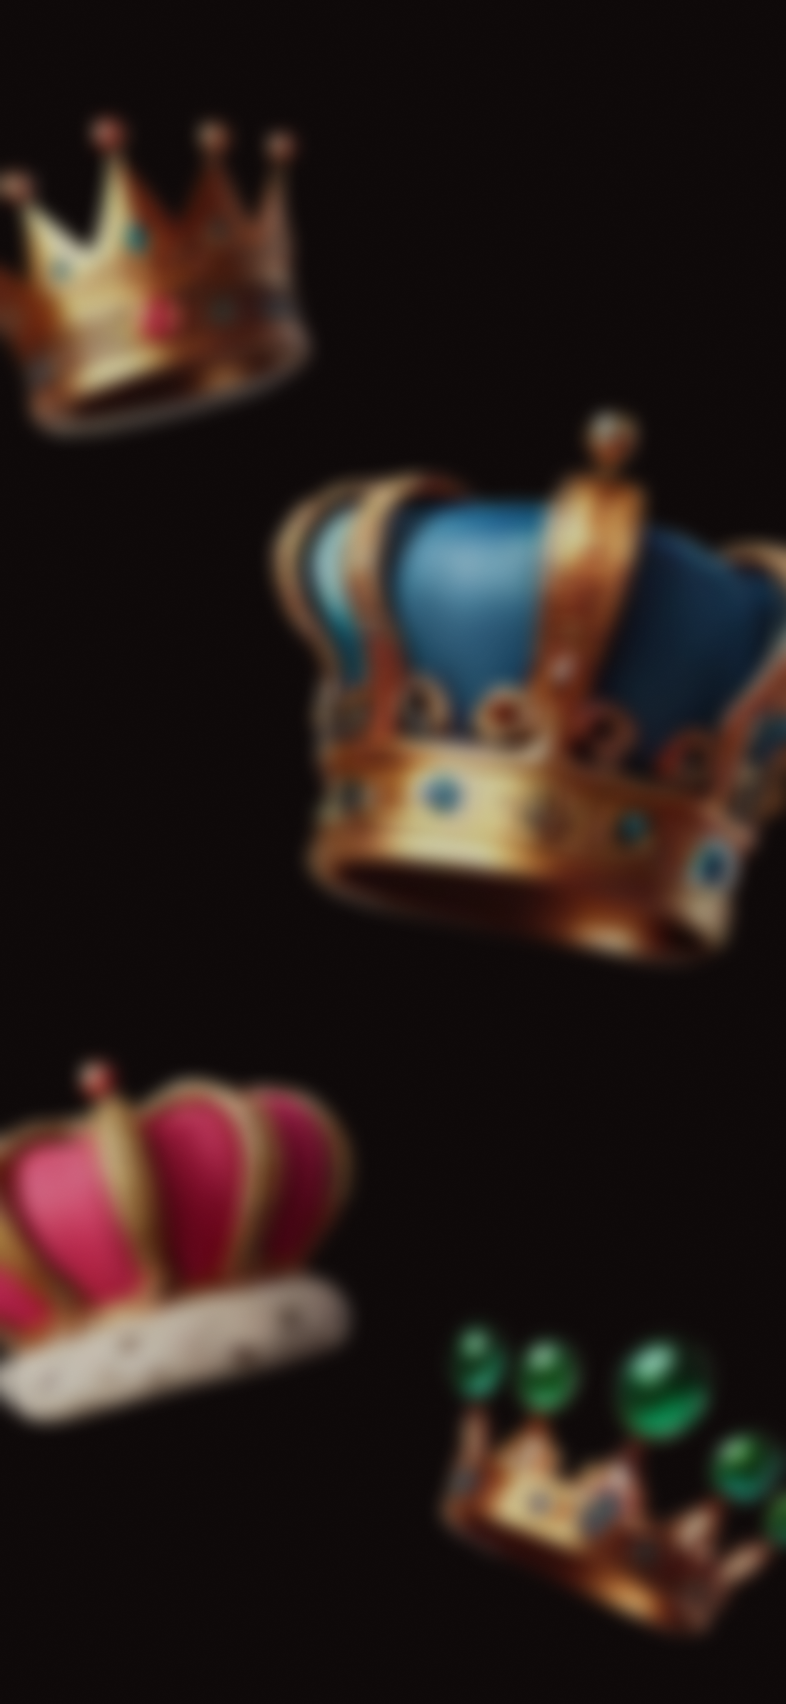
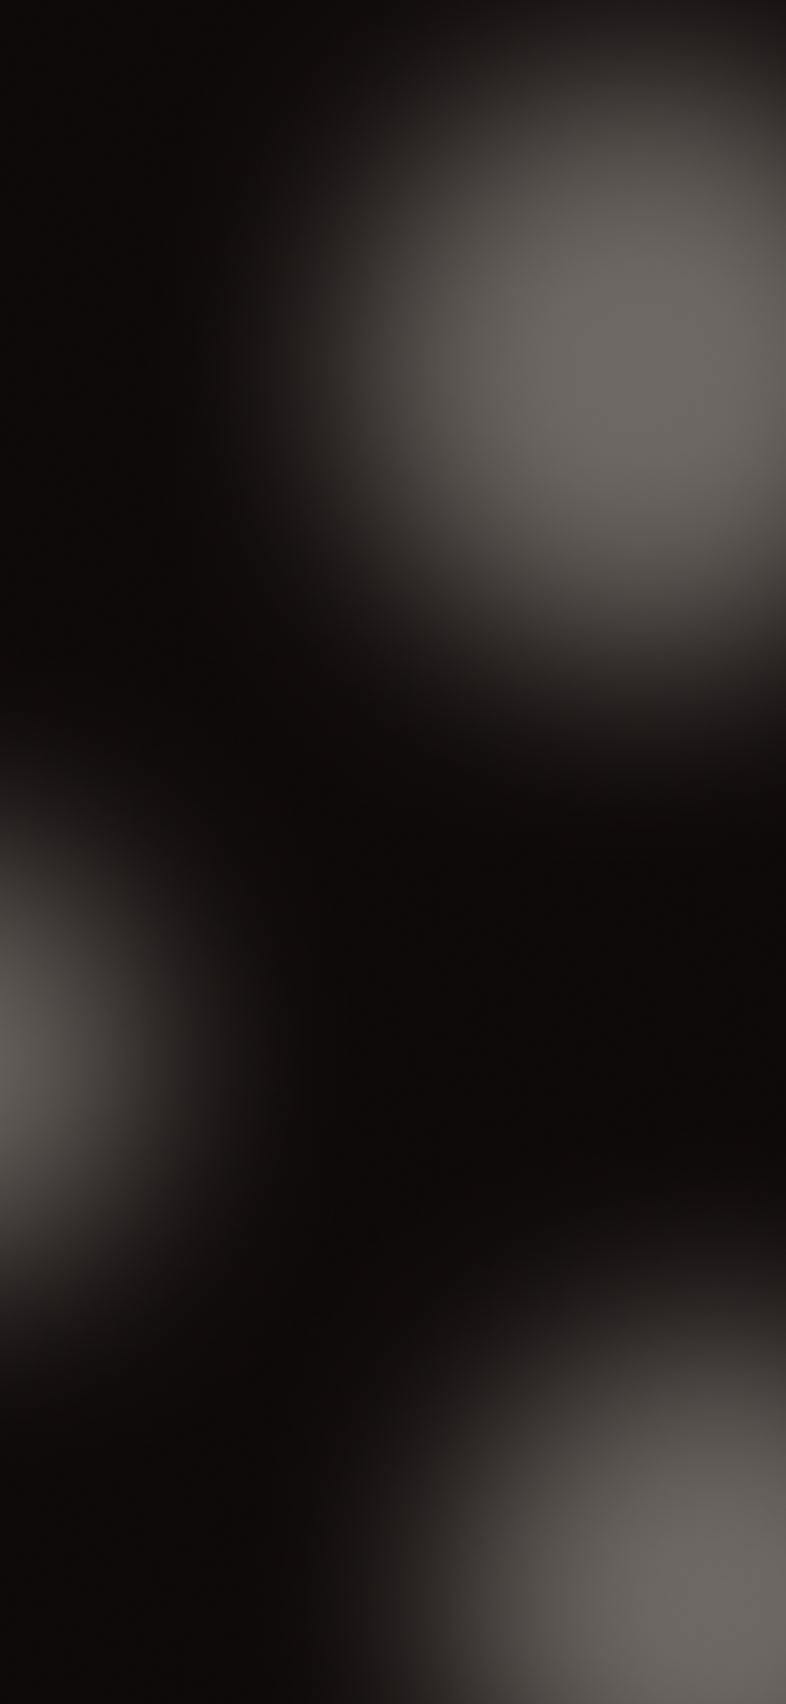
init branch

diff --git a/screen/stackScreen/WelcomeScreen.js b/screen/stackScreen/WelcomeScreen.js
@@ -13,7 +13,9 @@ const WelcomeScreen = ({navigation}) => {
   return (
     <ImageBackground
       source={require('../../assets/image/bg/bg.png')}
-      style={styles.container}>
+      style={styles.container}
+      // blurRadius={100}
+    >
       <ScrollView
         contentContainerStyle={styles.content}
         showsVerticalScrollIndicator={false}>
@@ -21,45 +23,31 @@ const WelcomeScreen = ({navigation}) => {
           Welcome to{'\n'}Crowns Sequence{'\n'}Mastery
         </Text>
 
-        <Text style={styles.subtitle}>
-          Memorize the light. Repeat the pattern. Claim the crown.
-        </Text>
+        <Text style={styles.subtitle}>Your path to mastery begins now!</Text>
 
         <View style={styles.instructionsContainer}>
-          <Text style={styles.sectionTitle}>💠 How to Play:</Text>
-          <Text style={styles.instruction}>
-            1. Watch the Sequence – Crowns will light up in order.
-          </Text>
-          <Text style={styles.instruction}>
-            2. Repeat It – Tap the crowns in the same sequence.
-          </Text>
-          <Text style={styles.instruction}>
-            3. Keep Going – Each round adds more steps.
+          <Text style={styles.sectionTitle}>
+            💠 Set Goals – Break down ambitions into daily tasks and track your
+            progress.
           </Text>
         </View>
 
         <View style={styles.hintsContainer}>
-          <Text style={styles.sectionTitle}>💠 Hints:</Text>
-          <Text style={styles.instruction}>
-            Tap the hint button to replay the sequence. You have 3 per game –
-            use them wisely!
+          <Text style={styles.sectionTitle}>
+            💠 Challenge Yourself – Enjoy a fun mini-game
           </Text>
         </View>
 
         <View style={styles.rewardsContainer}>
-          <Text style={styles.sectionTitle}>💠 Unlock Rewards:</Text>
-          <Text style={styles.instruction}>
-            Earn points to unlock new crowns and backgrounds as you progress.
-          </Text>
+          <Text style={styles.sectionTitle}>💠 Achieve. Play. Master.</Text>
         </View>
 
-        <TouchableOpacity
-          style={styles.nextButton}
-          onPress={() => navigation.navigate('NameScreen')}>
-          <Text style={styles.nextButtonText}>Next</Text>
-        </TouchableOpacity>
-        {/* <View style={{height: 30}} /> */}
       </ScrollView>
+      <TouchableOpacity
+        style={styles.nextButton}
+        onPress={() => navigation.navigate('NameScreen')}>
+        <Text style={styles.nextButtonText}>Next</Text>
+      </TouchableOpacity>
     </ImageBackground>
   );
 };
@@ -75,6 +63,7 @@ const styles = StyleSheet.create({
     // flex: 1,
     padding: 20,
     justifyContent: 'space-between',
+    marginTop: 100,
   },
   title: {
     fontSize: 40,
@@ -128,8 +117,9 @@ const styles = StyleSheet.create({
     backgroundColor: '#FFE5B4',
     padding: 15,
     borderRadius: 25,
-    width: '100%',
-    marginBottom: 30,
+    width: '90%',
+    marginBottom: '20%',
+    alignSelf: 'center',
   },
   nextButtonText: {
     textAlign: 'center',

diff --git a/App.js b/App.js
@@ -4,7 +4,7 @@ import {ContextProvider} from './store/context';
 import {
   AboutScreen,
   CustomizeScreen,
-  MainScreen,
+  Tournament,
   NameScreen,
   ResultScreen,
   SelectBackgroundScreen,
@@ -22,6 +22,7 @@ import {
 } from './components/Sound/SetUp';
 import {AppState} from 'react-native';
 import {useAppContext} from './store/context';
+import Navigation from './Navigation';
 
 const Stack = createNativeStackNavigator();
 
@@ -90,8 +91,9 @@ const AppNavigator = () => {
         animationDuration: 1000,
       }}>
       <Stack.Screen name="WelcomeScreen" component={WelcomeScreen} />
+      <Stack.Screen name="Navigation" component={Navigation} />
       <Stack.Screen name="NameScreen" component={NameScreen} />
-      <Stack.Screen name="MainScreen" component={MainScreen} />
+      <Stack.Screen name="Tournament" component={Tournament} />
       <Stack.Screen name="CrownGameScreen" component={CrownGameScreen} />
       <Stack.Screen name="ResultScreen" component={ResultScreen} />
       <Stack.Screen name="SettingsScreen" component={SettingsScreen} />

diff --git a/Navigation.js b/Navigation.js
@@ -1,0 +1,22 @@
+import {StyleSheet, Text, View} from 'react-native';
+import {createBottomTabNavigator} from '@react-navigation/bottom-tabs';
+import {Tournament} from './screen/stackScreen';
+import Progress from './screen/tabScreen/Progress';
+import Realm from './screen/tabScreen/Realm';
+import Sequance from './screen/tabScreen/Sequance';
+const Tab = createBottomTabNavigator();
+
+const Navigation = () => {
+  return (
+    <Tab.Navigator screenOptions={{headerShown: false}}>
+      <Tab.Screen name="Realm" component={Realm} />
+      <Tab.Screen name="Sequance" component={Sequance} />
+      <Tab.Screen name="Progress" component={Progress} />
+      <Tab.Screen name="Tournament" component={Tournament} />
+    </Tab.Navigator>
+  );
+};
+
+export default Navigation;
+
+const styles = StyleSheet.create({});

diff --git a/screen/stackScreen/NameScreen.js b/screen/stackScreen/NameScreen.js
@@ -68,7 +68,7 @@ const NameScreen = ({navigation}) => {
       }
 
       await AsyncStorage.setItem('userNickname', nickname.trim());
-      navigation.navigate('MainScreen');
+      navigation.navigate('Navigation');
     } catch (error) {
       console.error('Error saving nickname:', error);
       Alert.alert('Error', 'Failed to save nickname. Please try again.');
@@ -106,10 +106,11 @@ const NameScreen = ({navigation}) => {
   return (
     <ImageBackground
       source={require('../../assets/image/bg/bg.png')}
-      style={styles.container}>
+      style={styles.container}
+      // blurRadius={100}
+      >
       <SafeAreaView style={styles.content}>
         <View style={styles.headerRow}>
-        
           <HomeIcon />
           <Text style={styles.title}>Nickname</Text>
         </View>

diff --git a/screen/tabScreen/Tournament.js b/screen/tabScreen/Tournament.js
@@ -14,12 +14,13 @@ import CrownIcon from '../../components/Icons/CrownIcon';
 import LampIcon from '../../components/Icons/LampIcon';
 import {useAppContext} from '../../store/context';
 
-const MainScreen = ({navigation}) => {
+const Tournament = ({navigation}) => {
   const {totalScore} = useAppContext();
   return (
     <ImageBackground
       source={require('../../assets/image/bg/bg.png')}
-      style={styles.container}>
+      style={styles.container}
+      blurRadius={80}>
       <SafeAreaView style={styles.content}>
         {/* Header */}
         <View style={styles.header}>
@@ -143,4 +144,4 @@ const styles = StyleSheet.create({
   },
 });
 
-export default MainScreen;
+export default Tournament;

diff --git a/screen/stackScreen/index.js b/screen/stackScreen/index.js
@@ -1,5 +1,5 @@
 import WelcomeScreen from './WelcomeScreen';
-import MainScreen from './MainScreen';
+import Tournament from '../tabScreen/Tournament';
 import NameScreen from './NameScreen';
 import ResultScreen from './ResultScreen';
 import AboutScreen from './AboutScreen';
@@ -10,7 +10,7 @@ import SelectCrownScreen from './SelectCrownScreen';
 
 export {
   WelcomeScreen,
-  MainScreen,
+  Tournament,
   NameScreen,
   ResultScreen,
   AboutScreen,

diff --git a/components/Icons/HomeIcon.js b/components/Icons/HomeIcon.js
@@ -12,7 +12,7 @@ const HomeIcon = () => {
       end={{x: 1, y: 1}}>
       <TouchableOpacity
         style={styles.homeButton}
-        onPress={() => navigation.navigate('MainScreen')}>
+        onPress={() => navigation.navigate('Tournament')}>
         <Image
           source={require('../../assets/image/icons/homeIcon.png')}
           style={styles.homeIcon}

diff --git a/screen/stackScreen/CrownGameScreen.js b/screen/stackScreen/CrownGameScreen.js
@@ -178,7 +178,7 @@ const CrownGameScreen = ({navigation}) => {
   // Add function to handle return to menu
   const handleReturnToMenu = () => {
     setIsGameOverModalVisible(false);
-    navigation.navigate('MainScreen');
+    navigation.navigate('Tournament');
   };
 
   // Use hint

diff --git a/screen/tabScreen/Progress.js b/screen/tabScreen/Progress.js
@@ -1,0 +1,14 @@
+import { StyleSheet, Text, View } from 'react-native'
+import React from 'react'
+
+const Progress = () => {
+  return (
+    <View>
+      <Text>Progress</Text>
+    </View>
+  )
+}
+
+export default Progress
+
+const styles = StyleSheet.create({})

diff --git a/screen/tabScreen/Sequance.js b/screen/tabScreen/Sequance.js
@@ -1,0 +1,14 @@
+import { StyleSheet, Text, View } from 'react-native'
+import React from 'react'
+
+const Sequance = () => {
+  return (
+    <View>
+      <Text>Sequance</Text>
+    </View>
+  )
+}
+
+export default Sequance
+
+const styles = StyleSheet.create({})

diff --git a/screen/tabScreen/Realm.js b/screen/tabScreen/Realm.js
@@ -1,0 +1,14 @@
+import { StyleSheet, Text, View } from 'react-native'
+import React from 'react'
+
+const Realm = () => {
+  return (
+    <View>
+      <Text>Realm</Text>
+    </View>
+  )
+}
+
+export default Realm
+
+const styles = StyleSheet.create({})
